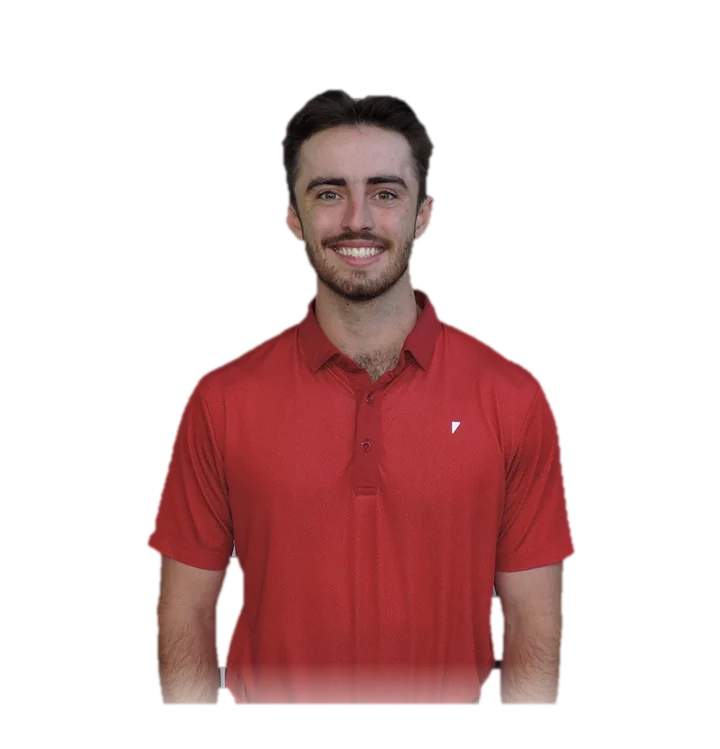
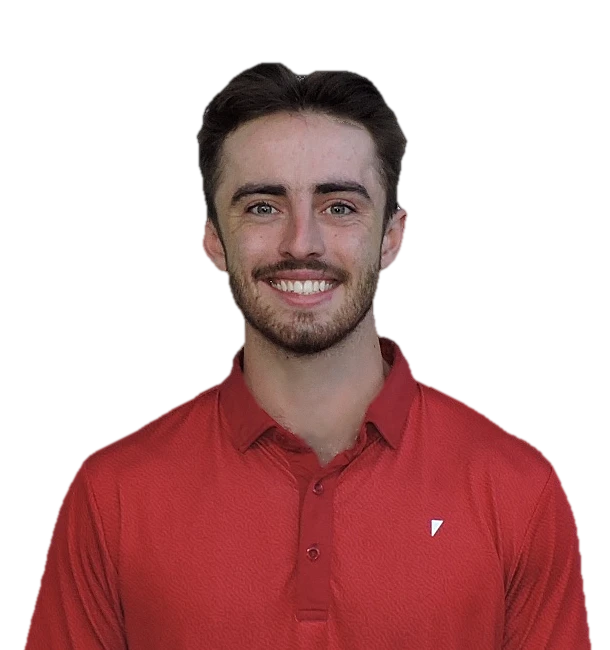
Use the new chest-crop cutout for the hero and share image
Replaces the old floating cutout with the close "chest" crop: larger face,
clean hair and shoulder edges, anchored to the bottom of the navy panel.
Recompressed to a 47 KB WebP with transparency (width/height updated), and
the social share image is rebuilt from the same photo.

Claude-Session: https://claude.ai/code/session_015BHEwS3Pfrys84VShdo9hU

diff --git a/index.html b/index.html
@@ -143,7 +143,7 @@
           <svg viewBox="0 0 600 120" preserveAspectRatio="none" aria-hidden="true">
             <path d="M0 60 L70 60 L90 20 L110 100 L130 8 L150 112 L170 40 L190 78 L215 60 L300 60 C330 60 340 40 370 40 C400 40 410 80 440 80 C470 80 480 45 510 45 C540 45 555 70 600 60" fill="none" stroke="#b4232c" stroke-width="5" stroke-linecap="round" stroke-linejoin="round" />
           </svg>
-          <img src="blake-hero.webp" alt="Blake Cody smiling in a red polo." width="720" height="749" fetchpriority="high" decoding="async" />
+          <img src="blake-hero.webp" alt="Blake Cody smiling in a red polo." width="610" height="650" fetchpriority="high" decoding="async" />
           <div class="home-badge"><b>Hi, I'm Blake.</b>23 · IT by day · writing the book <i>Aligned</i></div>
         </div>
       </header>
